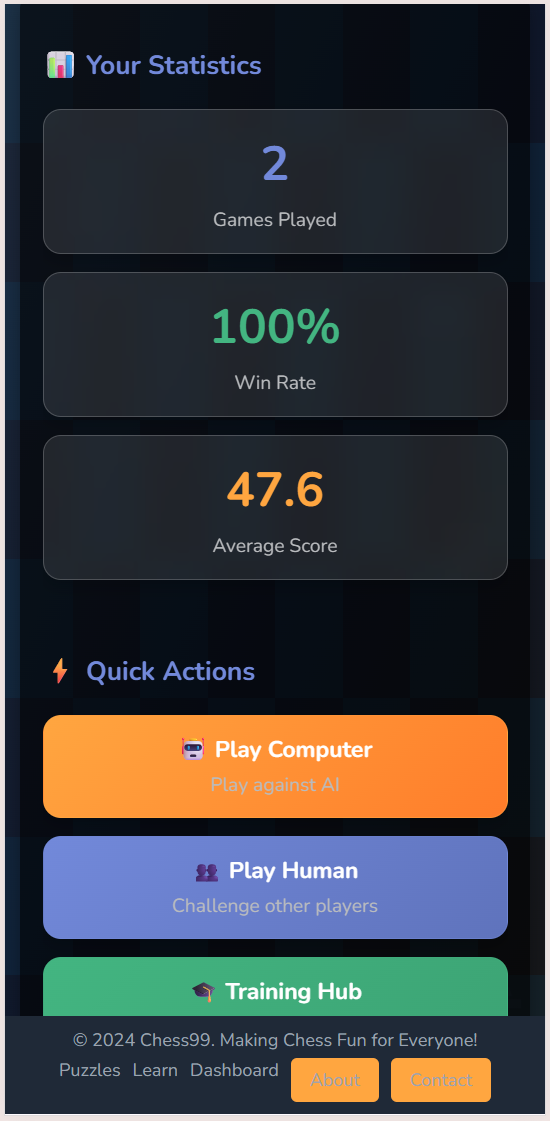
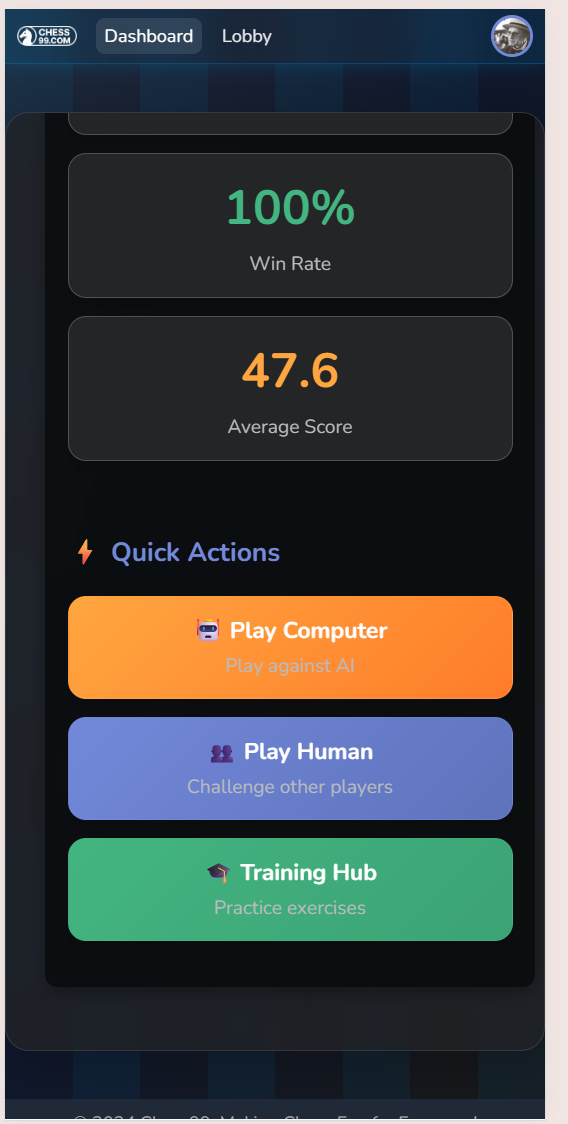
Made dashboard spaces more leaner

diff --git a/chess-frontend/src/pages/LobbyPage.css b/chess-frontend/src/pages/LobbyPage.css
@@ -1,4 +1,4 @@
-.lobby-container {
+/* .lobby-container {
   padding: 2rem 1rem;
   max-width: 100vw;
   width: 100%;
@@ -14,7 +14,33 @@
   overflow-x: hidden;
   box-sizing: border-box;
   height: auto;
+} */
+.lobby-container {
+  padding: 0.1rem 0.1rem;
+  width: 100%;
+  max-width: 1200px;
+  margin: 0.1rem auto;
+  background: rgba(32, 34, 37, 0.8);
+  backdrop-filter: blur(12px);
+  border: 1px solid rgba(255,255,255,0.1);
+  border-radius: 16px;
+  color: white;
+  box-shadow: 0 4px 30px rgba(0,0,0,0.25);
+  overflow-y: auto;
+  overflow-x: hidden;
+  box-sizing: border-box;
+  height: auto;
+  display: flex;
+  flex-direction: column;
+  align-items: center;
 }
+.lobby {
+  max-width: 100%;
+  box-sizing: border-box;
+  overflow-x: hidden;
+  margin: 0 auto;
+}
+
 
 .loading-spinner {
   display: flex;

diff --git a/chess-frontend/src/components/Dashboard.css b/chess-frontend/src/components/Dashboard.css
@@ -1,7 +1,28 @@
+.dashboard-container {
+  padding: 0.1rem 0.1rem;
+  width: 100%;
+  max-width: 1200px;
+  margin: 0.1rem auto;
+  background: rgba(32, 34, 37, 0.8);
+  backdrop-filter: blur(12px);
+  border: 1px solid rgba(255,255,255,0.1);
+  border-radius: 16px;
+  color: white;
+  box-shadow: 0 4px 30px rgba(0,0,0,0.25);
+  overflow-y: auto;
+  overflow-x: hidden;
+  box-sizing: border-box;
+  height: auto;
+  display: flex;
+  flex-direction: column;
+  align-items: center;
+}
+
 .dashboard {
-  max-width: 100vw;
+  max-width: 100%;
   box-sizing: border-box;
   overflow-x: hidden;
+  margin: 0 auto;
 }
 
 .dashboard-grid {

diff --git a/chess-frontend/src/components/Dashboard.js b/chess-frontend/src/components/Dashboard.js
@@ -56,8 +56,9 @@ const Dashboard = () => {
   };
 
   return (
-    <div className="dashboard p-6 min-h-screen text-white">
-      <header className="dashboard-header text-center mb-10">
+    <div className="dashboard-container">
+      <div className="dashboard p-6 text-white">
+        <header className="dashboard-header text-center mb-10">
         <h1 className="text-4xl font-bold text-white">Welcome, {user?.username || "Player"}!</h1>
       </header>
 
@@ -265,6 +266,7 @@ const Dashboard = () => {
             </button>
           </div>
         </section>
+        </div>
       </div>
     </div>
   );

diff --git a/chess-frontend/src/pages/LobbyPage.js b/chess-frontend/src/pages/LobbyPage.js
@@ -781,6 +781,7 @@ const LobbyPage = () => {
 
   return (
     <div className="lobby-container">
+      <div className="lobby p-6 text-white">
       {/* Resume Request Modal */}
       {resumeRequestData && (
         <div style={{
@@ -910,6 +911,7 @@ const LobbyPage = () => {
         inviteStatus={inviteStatus}
         invitedPlayer={invitedPlayer}
       />
+      </div>
     </div>
   );
 };
